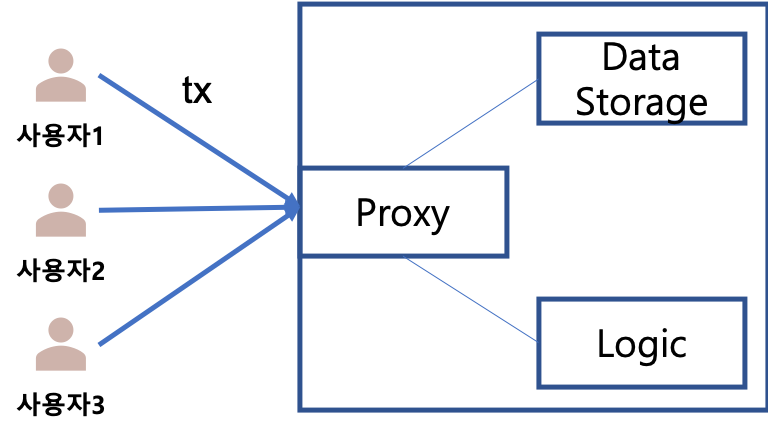
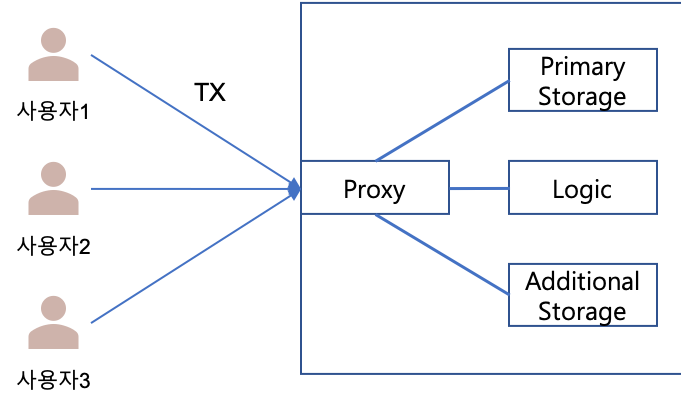
update docs

diff --git a/docs/DCToken.md b/docs/DCToken.md
@@ -6,10 +6,27 @@ DCToken
 * 다수의 계정에 하나의 특정 권한 부여, 하나의 특정 권한을 다수의 계정에게 부여 가능
 * 실물 화폐(KRW)가 담보 되어 있음은 발행 권한을 갖는 계정이 보증해야 함
 * DC 화폐 소각 시 상응하는 실물 화폐(KRW)가 지급 됨은 소각 권한을 갖는 계정이 보증해야 함
-* DC Token은 크게 Proxy, DataStorage, Logic 부로 구분되어 구현 되어 있음
-<center><img src="./pic1_arch.png" width="400" height="200"></center>
 
-### 2. 권한의 종류
+### 2. 구조
+<center><img src="./pic1_arch.png" width="400"></center><br>
+
+* DC Token은 크게 Proxy, Storage(Primary, Additional), Logic 부로 구분되어 구현 되어 있음
+* Proxy
+    * DC Token을 사용하고자 하는 외부 Entity 들이 발생 시키는 TX(Transaction)의 목적지가 되는 컨트랙트
+    * DC Token 보유자가 요청하는 DC 토큰 전송, 조회, Approve 등과 같은 TX 수신 시, Logic 컨트랙트에 구현 된 해당되는 함수를 delegate call을 이용하여 호출
+    * Proxy 에 상태변수는 Primary Storage, Additional Storage 관리를 위한 가변 배열이 존재
+* Primary Storage
+    * Proxy 컨트랙트 기본 동작에 필요한 상태 변수를 관리하는 데이터 저장소
+    * Logic 컨트랙트 주소 저장 변수와 이를 업데이트 하는 함수가 구현되어 있음
+    * Logic 컨트랙트 버전 관리를 위한 상태 변수가 존재
+* Additional Storage
+    * Logic 컨트랙트 동작에 필요한 각종 상태 변수들의 기록을 위한 데이터 저장소 역할
+    * 현재는 ERC20 Logic 동작에 필요한 상태변수(토큰 이름, decimal, 심볼, 잔액 등)를 관리하는 컨트랙트(Erc20Storage)만 구현 되어 있음
+* Logic
+    * Erc20 발행, 전송, 조회, 소각, Approve 관련 로직 구현부
+    * Eip-2612 permit, nonces 구현
+
+### 3. 권한의 종류
 * Operator
     * DC Token을 운영하기 위한 Adminitor 역할을 수행
     * DC Token 긴급 동작 정지(pause) 실행 권한을 가짐
@@ -24,7 +41,7 @@ DCToken
     * 특정 계정가 보유한 DC Token 을 소각(Burn) 할 수 있는 권한을 가짐
     * DC Token을 소각하여 이에 상응하는 실물 화폐(KRW)가 DC Token을 보유 했었던 계정에 지급 됨을 본 권한을 가진 계정이 보증해야 함
 
-### 3. 호출 가능한 함수 목록
+### 4. 호출 가능한 함수 목록
 * AccessControl 관련 함수 (Role management)
     * hasRole(bytes32 role, address account) returns (bool)
         * account가 role 권한 보유 여부를 확인
@@ -42,18 +59,20 @@ DCToken
     * renounceRole(bytes32 role, address account)
         * role의 권한을 가진 특정 account가 부여 받은 role을 스스로 반납 할 때 사용
 * DC Token 운영과 관계된 함수 (Operator 권한 필요)
-    * setInitialize(address minter, address burner)
-        * 초기 minter와 burner 타입의 권한을 부여함
-    * addDataStorage(address storageContract)
-        * Proxy 컨트랙트에 연결할 DataStorage 컨트랙트를 추가함
-        * Proxy 컨트랙트에는 다수의 DataStorage 컨트랙트를 연결하기 위해 가변 배열 형태로 DataStorage를 관리함
-    * updateDataStorage(uint256 index, address storageContract)
-        * Proxy 컨트랙트 내부에 DataStorage 컨트랙트를 관리하는 가변 배열의 특정 위치(index)의 DataStorage를 업데이트 할 때 사용
-    * updateLogicContract(address logicContract)
+    * addAdditionalStorage(address storageContractAddress)
+        * Proxy 컨트랙트에 연결 할 additionalStorage 컨트랙트를 추가
+        * Proxy 컨트랙트에는 다수의 additionalStorage 컨트랙트 관리를 위한 가변 배열이 존재
+        * 향후 Logic 컨트랙트 업데이트로 인한 추가 상태변수 사용이 필요한 경우에 사용
+    * updateAdditionalStorage(uint256 index, address storageContract)
+        * Proxy 컨트랙트 내부에 additionalStorage 컨트랙트를 관리하는 가변 배열의 특정 위치(index)의 컨트랙트를 업데이트 할 때 사용
+    * updateLogicContract(address logicContract, string calldata version)
         * Proxy 컨트랙트에 연결 된 Logic 컨드랙트(ERC20 전송 로직 구현부)를 업데이트 할 때 사용
     * transferStorageOwnership(uint256 index, address target)
-        * Data Storage 컨트랙트는 특정 계정만이 내부의 Data를 업데이트 할 수 있도록 Ownership 기반의 update 함수로 구현되어 있음
+        * Additional Storage 컨트랙트는 특정 계정만이 내부의 Data를 업데이트 할 수 있도록 Ownership 기반의 update 함수로 구현되어 있음
         * 운영간 저장 된 내부 data 강제 업데이트가 필요한 상황을 대비하여 ownership을 proxy에서 다른 계정으로의 반환에 사용하기 위해 만들어진 함수
+    * addRoleType(bytes32 role)
+        * DC Token 운영을 위한 새로운 Role 정의 시 사용
+        * 현재는 Operator, Minter, Burner 총 3가지의 Role이 정의 됨
     * pause()
         * 토큰의 발행, 소각, 전송 기능을 강제 중지 시킴
         * Operator 권한을 부여받은 계정에서만 호출 가능
